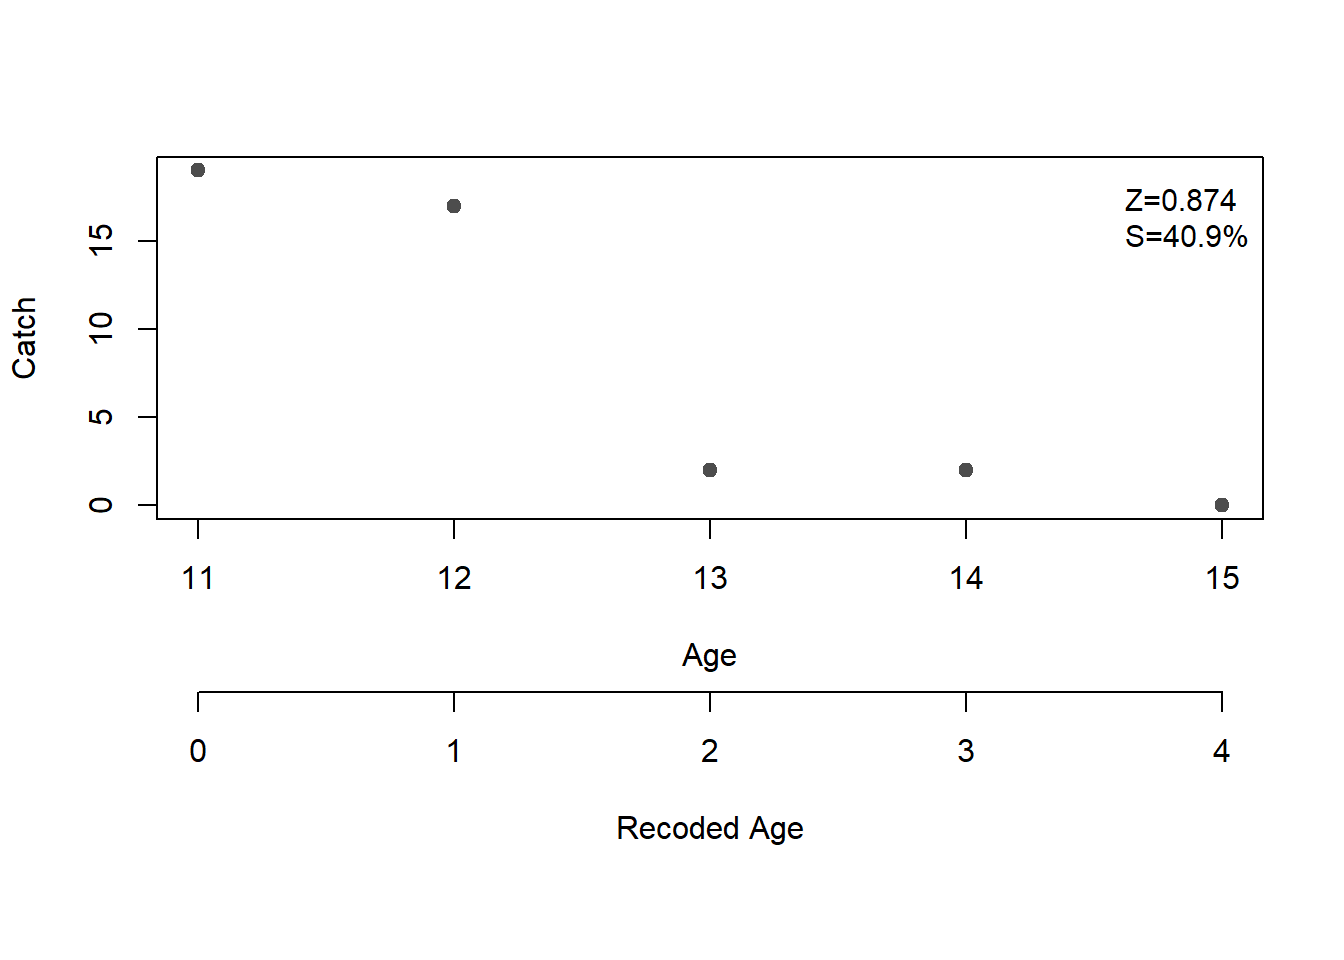
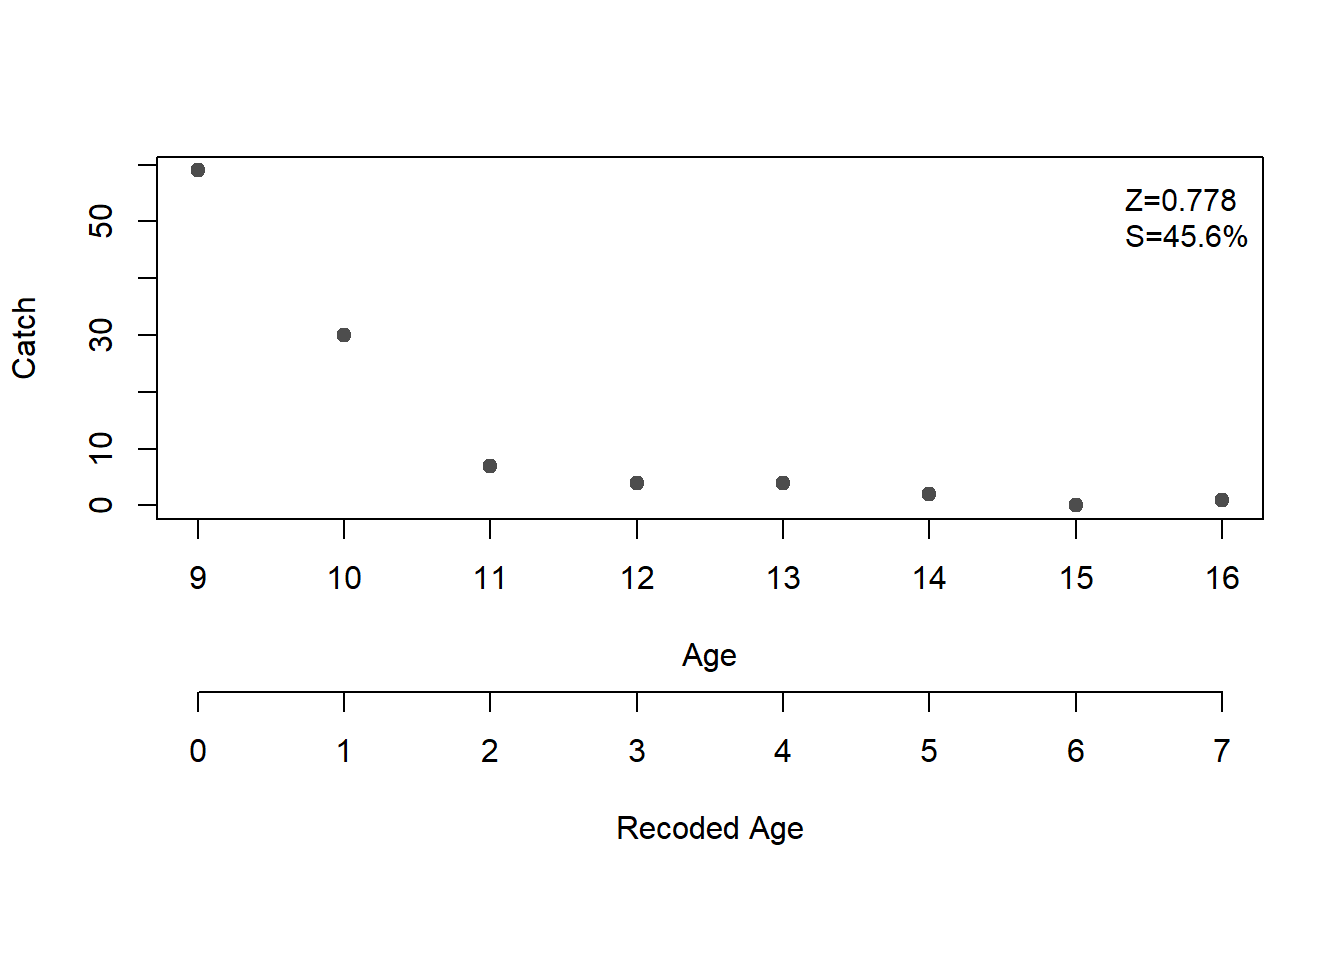
Final changes to text and code to make it easier to follow steps to get survival rate

diff --git a/quarto/GSL Inconnu mortality rates and catch curves.html b/quarto/GSL Inconnu mortality rates and catch curves.html
@@ -252,40 +252,40 @@ ul.task-list li input[type="checkbox"] {
 <div class="cell">
 <div class="cell-output cell-output-stdout">
 <pre><code>    Estimate Std. Error
-S 40.9090909  6.0983672
-Z  0.8737692  0.2500418</code></pre>
+S 45.6410256 3.57612310
+Z  0.7784362 0.07921301</code></pre>
 </div>
 <div class="cell-output cell-output-stdout">
-<pre><code>     95% LCI   95% UCI
-S 28.9565108 52.861671
-Z  0.3836963  1.363842</code></pre>
+<pre><code>     95% LCI    95% UCI
+S 38.6319532 52.6500981
+Z  0.6231816  0.9336908</code></pre>
 </div>
 <div class="cell-output cell-output-stdout">
 <pre><code>$age
-[1] 11 12 13 14 15
+[1]  9 10 11 12 13 14 15 16
 
 $catch
-[1] 19 17  2  2  0
+[1] 59 30  7  4  4  2  0  1
 
 $age.e
-[1] 11 12 13 14 15
+[1]  9 10 11 12 13 14 15 16
 
 $catch.e
-[1] 19 17  2  2  0
+[1] 59 30  7  4  4  2  0  1
 
 $age.r
-[1] 0 1 2 3 4
+[1] 0 1 2 3 4 5 6 7
 
 $n
-[1] 40
+[1] 107
 
 $T
-[1] 27
+[1] 89
 
 $est
     Estimate Std. Error
-S 40.9090909  6.0983672
-Z  0.8737692  0.2500418
+S 45.6410256 3.57612310
+Z  0.7784362 0.07921301
 
 attr(,"class")
 [1] "chapmanRobson"</code></pre>
